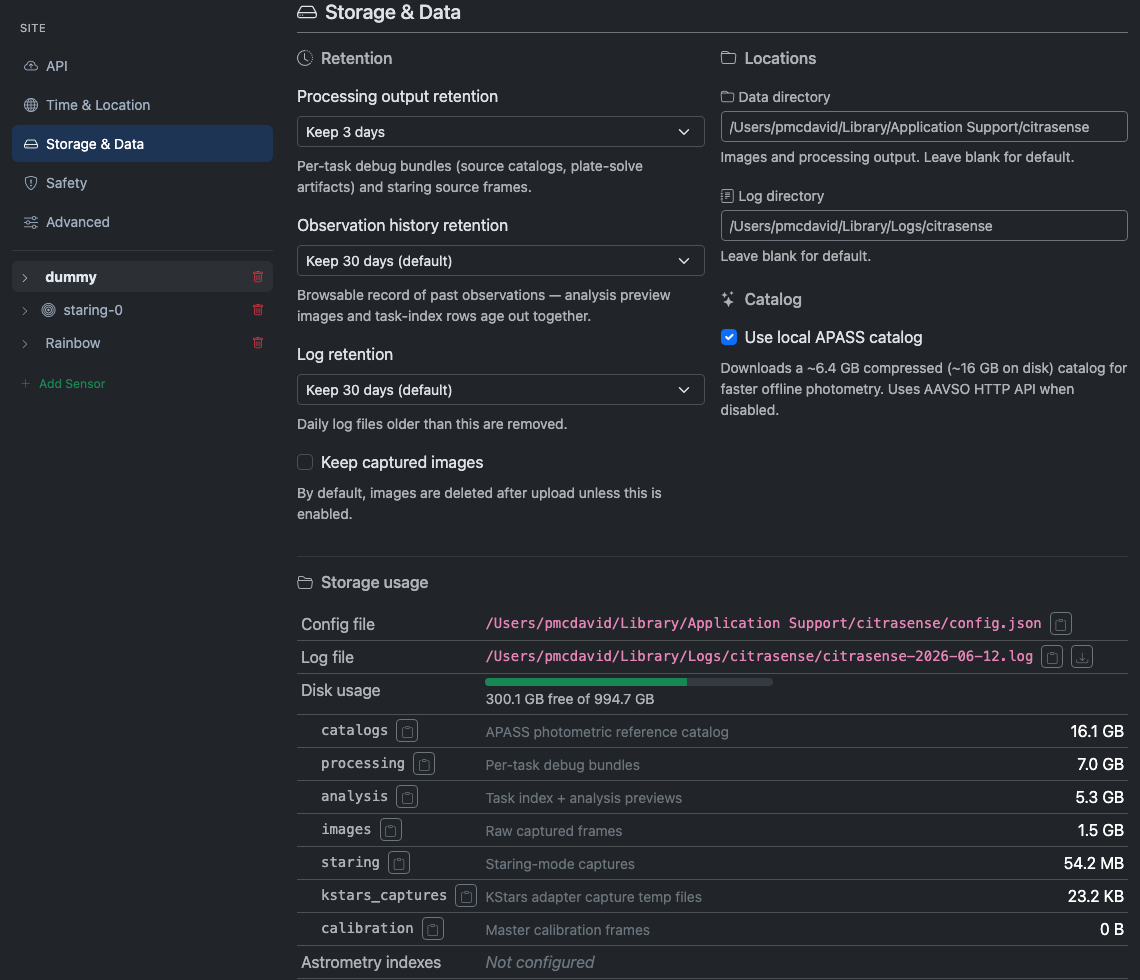
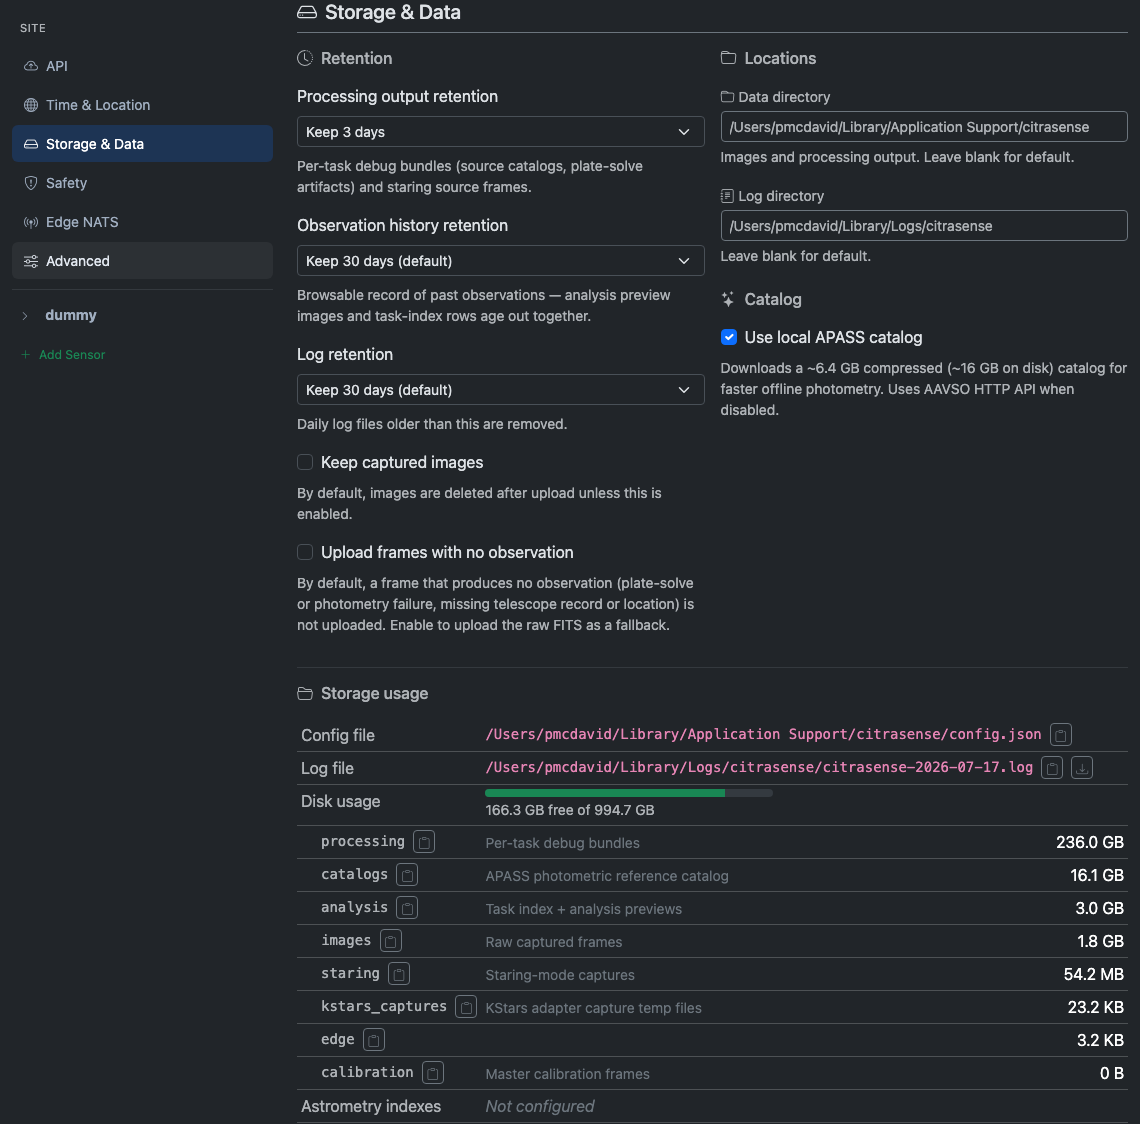
Enhance CitraSense documentation with updates to Configuration and Telescope Sensor sections; add details for slitless spectroscopy, exposure overrides, and improve clarity of controls. Update images for better representation.

Changed region(s): [[0.0, 0.0, 0.9825, 1.0], [0.9211, 0.7347, 1.0, 0.9796], [0.0307, 0.2755, 0.0921, 0.398]]

diff --git a/docs/citrasense/TelescopeSensor.md b/docs/citrasense/TelescopeSensor.md
@@ -129,14 +129,16 @@ Controls:
 Additional mount controls appear at the bottom of the Telescope card for adapters that support direct control:
 
 - **Jog pad** — 3×3 grid of N/S/E/W buttons for manual mount movement. Press and hold to move; release to stop. Center button stops all axes immediately. Works with both mouse and touch. A safety deadman backs this up: if the browser tab loses focus, the page is closed, or the connection drops mid-jog, the daemon stops the axis on its own so a held button can't leave the mount running away.
-- **Point at satellite** — Search the satellite catalog by name (start typing — for example "ISS" or "DIRECTV 14" — and matches appear in a dropdown). Flip the **Only visible now** switch to limit results to satellites currently above your horizon; matches then show their altitude (for example `· 42°`) next to the name. Pick a result to load its live state. A chip shows its current altitude and azimuth, colored green when above the configured horizon limit, yellow when below it, and red when below the horizon. The action button reads **Track** on mounts that support custom tracking rates (slew and follow the satellite) and **Point** on mounts that do not (slew once — press again to re-point). A "View on Citra" link opens the satellite's page on citra.space when the app URL is configured. Click **clear** to drop the selection.
+- **Point at object** — One search box for both satellites and celestial objects. Focus the empty box to browse the celestial catalog (the Moon, the planets, and named stars, including spectroscopic standards); start typing to search satellites and celestial objects together (for example "ISS", "Vega", or "Jupiter"). Each result carries a kind badge — **SAT**, **STAR**, **PLANET**, or **MOON** — and spectroscopic standard stars are tagged **std**. Flip the **Only visible now** switch to limit results to objects currently above your horizon; matches then show their altitude (for example `· 42°`) next to the name. Pick a result to load its live state. A chip shows its current altitude and azimuth, colored green when above the configured horizon limit, yellow when below it, and red when below the horizon.
 
-  Manual tracking and automated task processing are mutually exclusive — you can't hand-follow a satellite while the daemon is working the task queue. The Track/Point button stays disabled until you turn the sensor's **Processing** switch off. Turning Processing back on ends any manual track that's still running, so the scope can return to its scheduled tasks.
+  The action button adapts to what you selected and to the mount. For a **celestial object** it reads **Track** and slews to the object, then holds it at sidereal rate. For a **satellite** it reads **Track** on mounts that support custom tracking rates (slew and follow the satellite) or **Point** on mounts that do not (slew once — press again to re-point). A "View on Citra" link opens the satellite's page on citra.space for satellite selections when the app URL is configured. Click **clear** to drop the selection.
 
-  ![Telescope card with DIRECTV 14 selected as the satellite target, showing the live alt/az chip and View on Citra link](img/sensor-telescope-satellite-track.png)
+  Manual tracking and automated task processing are mutually exclusive — you can't hand-follow a target while the daemon is working the task queue. The Track/Point button stays disabled until you turn the sensor's **Processing** switch off. Turning Processing back on ends any manual track that's still running, so the scope can return to its scheduled tasks.
+
+  ![The Point at object search with its browse dropdown open, listing the Moon and planets with kind badges and current altitude](img/sensor-telescope-satellite-track.png)
 - **Go To** — Enter target RA (0–360°) and Dec (−90–90°), press **Go** to slew. The button is disabled while the mount is slewing or busy.
 - **Orient at New Site** — One button to get a freshly relocated scope ready to observe. It runs a fixed sequence back to back — home the mount, rebuild the pointing model from scratch, autofocus, and verify with a plate solve — then toasts you when it's good to go. While running, the button shows the current step and count (e.g., "Autofocus (3/4)") and a spinner; press it again to cancel. It appears only on adapters where CitraSense owns the pointing model (Direct Hardware and Dummy), and is disabled while an imaging task is active. Steps the mount can't do (homing on a mount with no home) are skipped automatically. Use it when you've physically moved the telescope to a new location, where the old pointing model and focus no longer apply.
-- **Align Now** — Triggers a plate-solve alignment to sync the mount model. The button changes to **Cancel Alignment** while running and shows progress text and a spinner; below it the last alignment timestamp is displayed when idle.
+- **Align Now** — Triggers a plate-solve alignment to sync the mount model. The button changes to **Cancel Alignment** while running and shows progress text and a spinner; below it the last alignment timestamp is displayed when idle. When the run finishes it raises a toast with the result, so you see whether the alignment succeeded even if you have stepped away.
 - **Sidereal Tracking** — Toggle the mount's sidereal tracking on or off.
 - **Slewing** pill — Animated badge that appears whenever the mount is in motion.
 
@@ -172,7 +174,7 @@ The preview area shows the most recent image captured by this telescope's camera
 | **Exp (s)** | Preview exposure time in seconds (0.01–30, decimal values allowed). |
 | **Snap** | Take a single preview exposure. |
 | **Loop** | Start continuous preview exposures (button turns red; click again to stop). |
-| **Save** | Capture a full FITS image at the current exposure. |
+| **Save** | Capture a full FITS image at the current exposure. When the saved file lands under the served images directory, a **Saved:** download link appears below the controls so you can pull the FITS straight to your browser. |
 | **Analyze now** | Capture one frame at the current exposure, run it through the processing pipeline (plate-solve, source extraction, satellite matching), and upload any matches. Useful for one-off "what's in the field?" checks without scheduling a task. Disabled while another capture, autofocus, or imaging task is in flight. When the job finishes, an inline result panel shows whether the frame plate-solved, the field center and pixel scale, source count, and a list of satellite matches with their magnitudes. Click the × on the panel to dismiss it. See screenshot below. |
 | **Flip** | Horizontally flip the preview — useful when a diagonal mirror inverts the image. |
 

diff --git a/docs/citrasense/Configuration.md b/docs/citrasense/Configuration.md
@@ -92,8 +92,22 @@ Once you save with an adapter selected, the filter configuration card appears. I
 | Column | Description |
 |--------|-------------|
 | **Enabled** | Whether this filter is available for observations. Disabled filters are skipped during characterization sequences. |
-| **Name** | The filter's name. Choose from standard presets (Johnson-Cousins UBVRI, Sloan ugriz, Clear, Luminance) or enter a custom name. A colored dot shows the filter's display color. |
+| **Name** | The filter's name. Choose from standard presets (Johnson-Cousins UBVRI, Sloan ugriz, Clear, Luminance) or enter a custom name. A colored dot shows the filter's display color. Choosing a name from the **Spectroscopy** group (SA-100, SA-200, Grating) marks the position as a transmission grating and reveals the Grating column. |
 | **Focus Position** | The focuser step position for this filter. When switching filters, CitraSense moves the focuser to this position to compensate for filter-specific focus offsets. |
+| **Exposure (s)** | Optional per-filter exposure override. Leave blank to inherit the sensor's default [Exposure Duration](#observation); the placeholder shows what that default is. Set a value to run this filter at its own exposure. Useful when one filter needs a much longer integration than the rest (gratings in particular). |
+| **Grating** | Only shown for a filter whose name is in the Spectroscopy group. Configures the disperser for slitless spectroscopy (see below). |
+
+#### Slitless spectroscopy gratings
+
+When a filter position holds a transmission grating (for example a Star Analyser SA-100 or SA-200), name it from the Spectroscopy group. The Grating column then exposes the optics CitraSense needs to reduce the dispersed frame:
+
+| Field | Description |
+|-------|-------------|
+| **lines/mm** | Groove density of the grating. Pre-filled for recognised products (SA-100 → 100, SA-200 → 200); supply it yourself for a generic "Grating". |
+| **dist (mm)** | Distance from the grating to the sensor. You always set this — it sets the dispersion scale. |
+| **auto°** | Locked dispersion angle in degrees. Leave blank to let CitraSense auto-detect the angle while imaging and lock it in once frames agree. Enter a value to pin the axis manually; press **×** to clear it back to auto-detect. |
+
+Gratings need a long integration, so pair the position with a per-filter **Exposure (s)** override. To collect a wavelength reference, point the mount at a spectroscopic standard star — the pointing search box on the [Telescope card](TelescopeSensor.html#mount-controls-direct-hardware-adapters) tags these with a **std** badge.
 
 ### Mount Alignment
 
@@ -194,7 +208,7 @@ The Observation tab controls how CitraSense images satellites.
 | Setting | Description |
 |---------|-------------|
 | **Satellite Observation Strategy** | How the telescope tracks during capture. **Auto** lets CitraSense decide per-task based on the satellite's apparent motion. **Tracking** matches the mount's motion to the satellite for point-source images. **Sidereal** holds the mount on the sky background, producing a satellite streak. |
-| **Exposure Duration (seconds)** | How long each frame is exposed (0.01–300 seconds). Shorter exposures (1–3s) work well for sidereal/streak mode. Longer exposures (10–20s) work better for tracking mode. |
+| **Exposure Duration (seconds)** | How long each frame is exposed (0.01–300 seconds). Shorter exposures (1–3s) work well for sidereal/streak mode. Longer exposures (10–20s) work better for tracking mode. A filter can override this with its own value — see [Filter Configuration](#filter-configuration). |
 | **Exposures Per Task** | Number of frames captured per observation task (1–50). Multiple frames improve satellite detection reliability. |
 | **Adaptive Exposure** | When enabled, CitraSense computes the exposure time automatically based on the satellite's angular rate and your telescope's plate scale, instead of using the fixed Exposure Duration above. The goal is to keep the satellite trail within the pixel limit you configure. Only applies to sidereal (streak) mode. |
 
@@ -234,6 +248,8 @@ Each processor in the pipeline can be individually enabled or disabled:
 | **Source Extractor** | Detects stars and satellites in the plate-solved image using SExtractor. |
 | **Photometry Calibrator** | Cross-matches extracted sources against the APASS catalog and computes photometric zero-points. |
 | **Satellite Matcher** | Matches detected sources to predicted satellite positions from TLE propagation. |
+| **Slitless Spectroscopy** | Extracts a 1D spectrum per matched satellite when imaging through a transmission grating. Inert on ordinary broadband frames — it only runs when the frame's filter is a [configured grating](#slitless-spectroscopy-gratings). |
+| **Science QC** | Observation self-diagnosis in shadow mode: logs a per-frame health verdict but never blocks an upload. Leave it on to build up quality data on your setup. |
 | **Annotated Image** | Renders an overlay JPEG with satellite annotations for visual review. |
 
 Each processor shows a success/failure progress bar when statistics are available, along with the last failure reason if one occurred.
@@ -274,6 +290,7 @@ The Storage & Data tab is a site-level tab that controls how long CitraSense kee
 | **Observation history retention** | How long the browsable record of past observations stays available. Analysis preview images and task-index rows age out together. Options: **7 days**, **30 days** (default), **90 days**, **1 year**, or **Keep forever**. |
 | **Log retention** | How long daily log files are kept before they are removed. Options: **7 days**, **30 days** (default), **90 days**, or **Keep forever**. |
 | **Keep captured images** | Retain raw FITS files after upload. By default, images are deleted after successful upload to save disk space. Enable this for post-processing or archival. |
+| **Upload frames with no observation** | Off by default. A frame that produces no observation — a plate-solve or photometry failure, or a missing telescope record or location — is normally not uploaded. Enable this to upload the raw FITS as a fallback so the frame still reaches the backend. This is a separate axis from **Keep captured images**, which only controls local retention. |
 
 {: .note }
 > Processing-output retention controls how long bundles stay available for [Analysis tab reprocessing](Analysis.html#reprocess-panel). **Delete immediately** disables reprocessing — once a task finishes, its bundle is gone.
